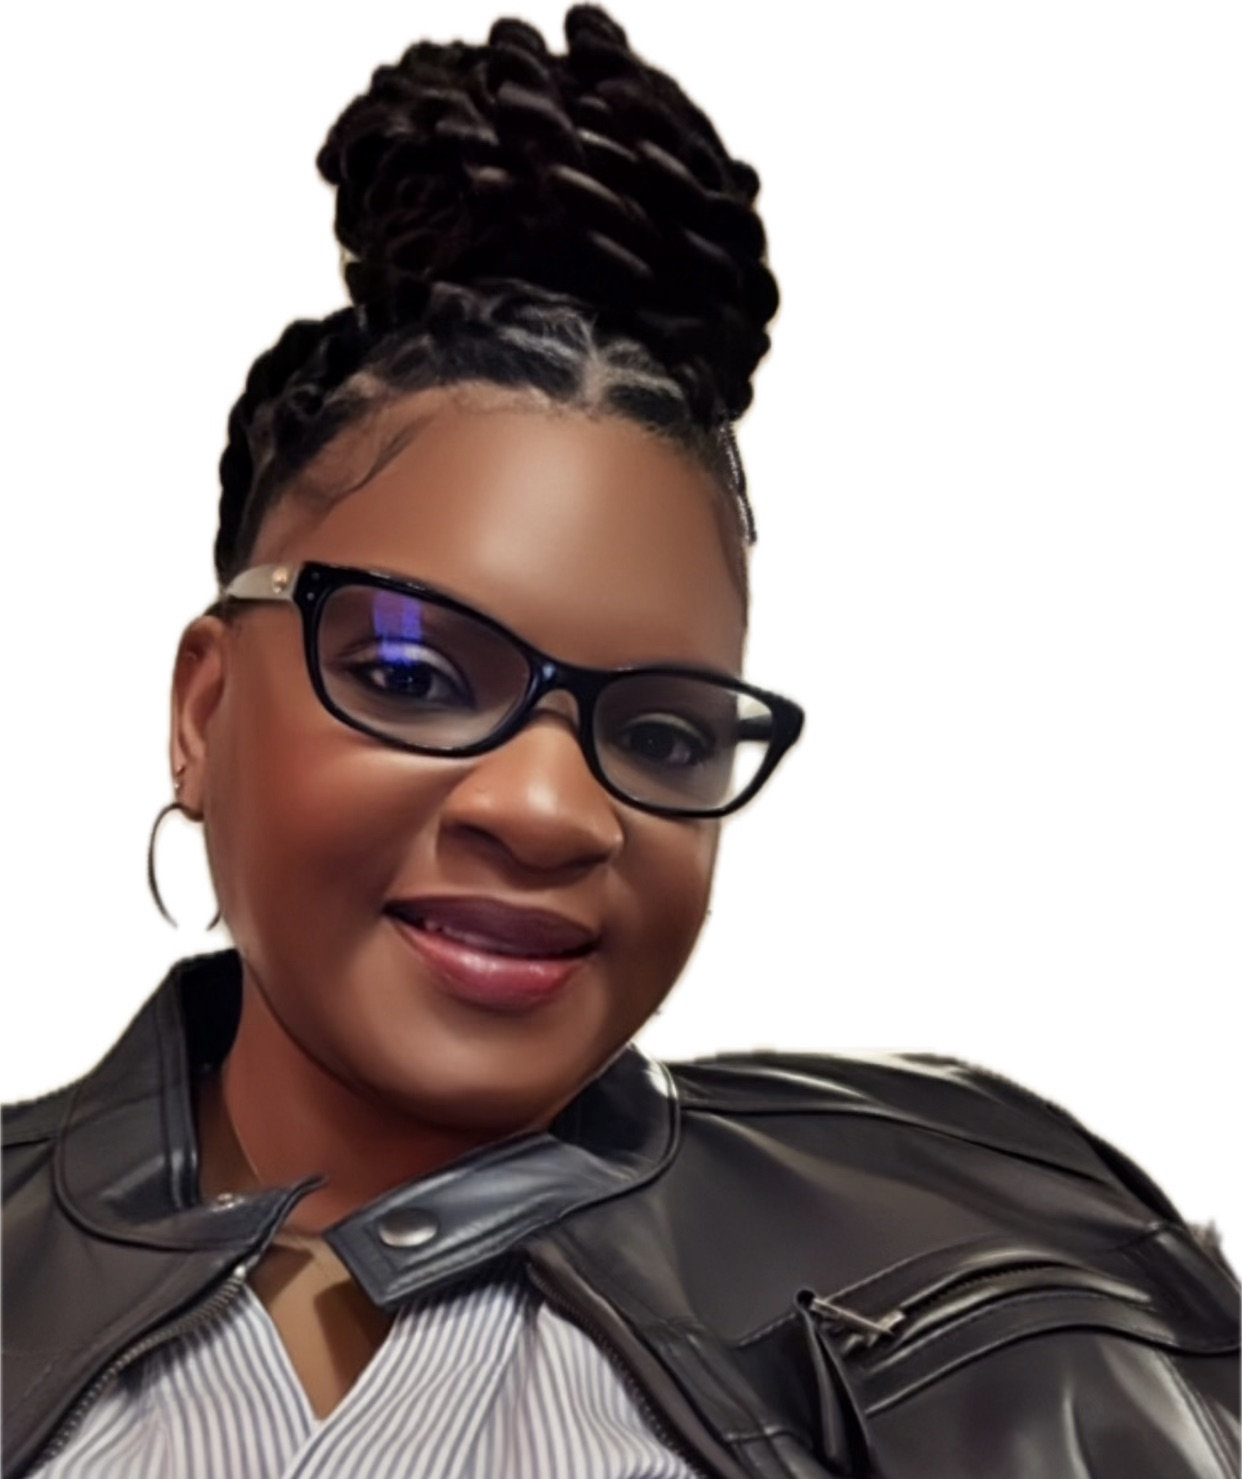
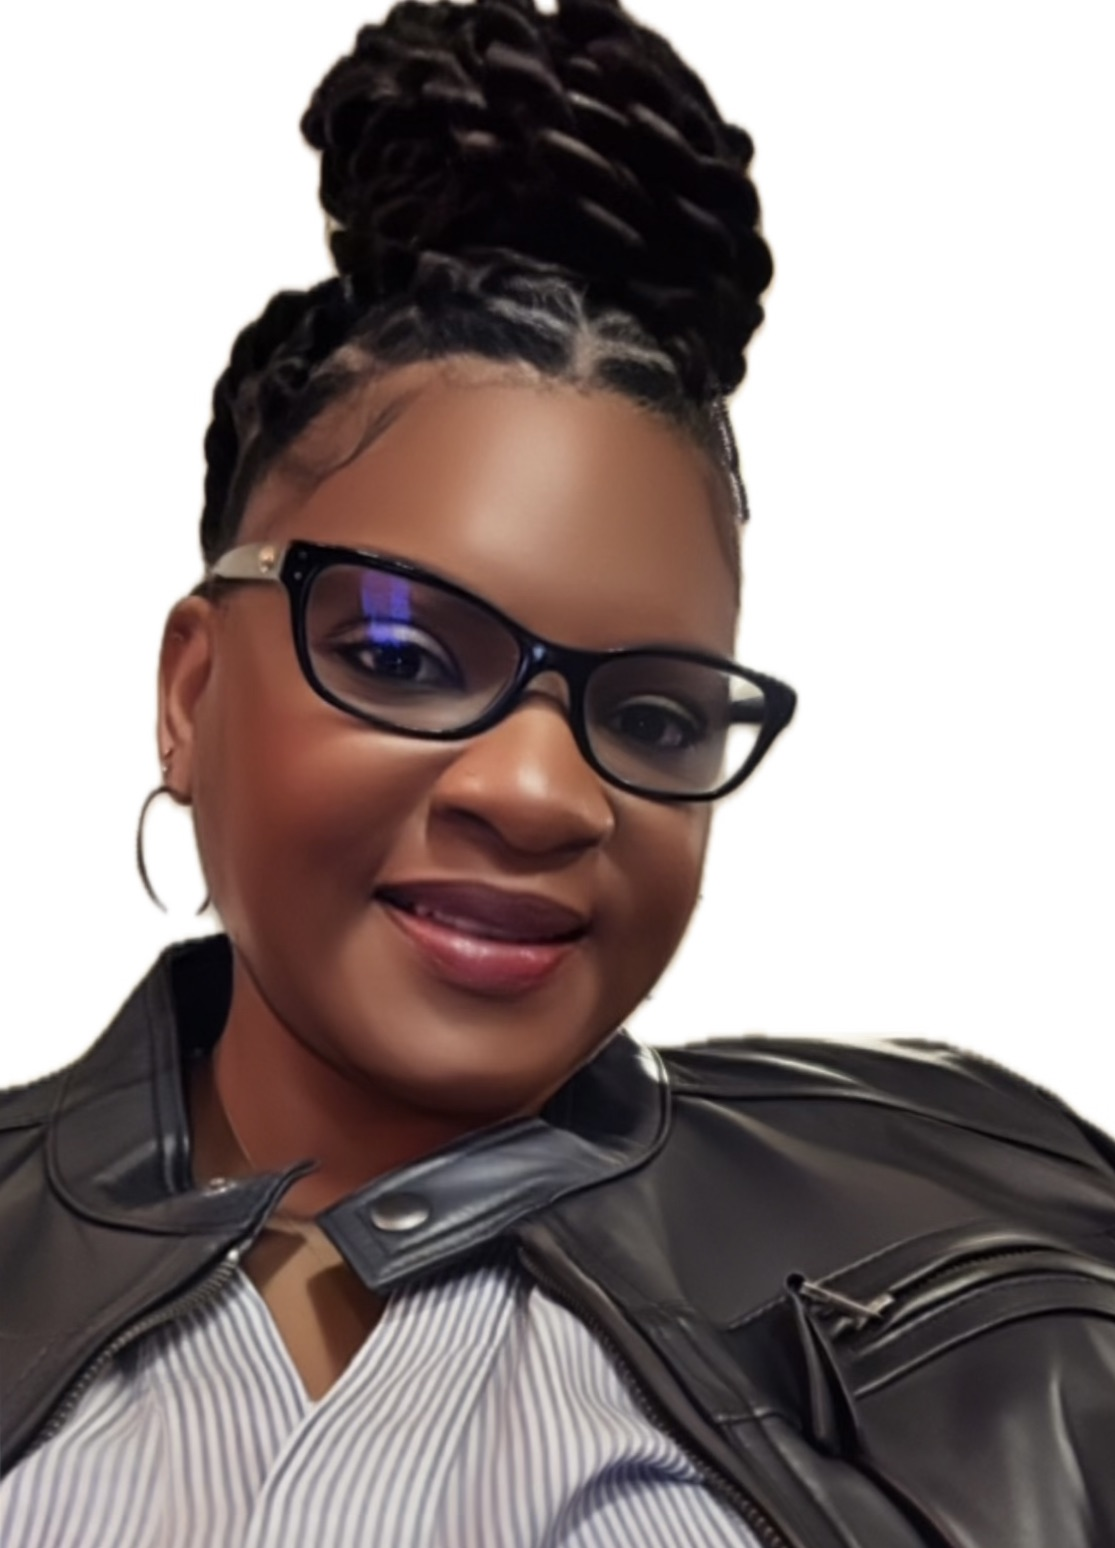
edit image

diff --git a/css/style.css b/css/style.css
@@ -25,6 +25,10 @@ nav {
 figcaption {
     font-size: 1.1rem;
     text-align: center;
+
+}
+
+#myName {
     font-weight: bold;
 }
 
@@ -190,8 +194,8 @@ label {
 }
 
 #aboutImg {
-    height: 25rem;
-    width: 25rem;
+    
+    width: 20rem;
     border-style: double;
     border-color: #888888;
     background: white;
@@ -225,7 +229,7 @@ body {
     background-size: 1100px 800px;
     background-position: 0rem 6.25rem; */
 
-    display: inline-block;
+    align-items: center;
 }
 
 #emailMe, #linkedin {
@@ -243,7 +247,7 @@ footer {
     left: 0;
     bottom: 0;
     width: 100%;
-    background-color: rgb(241, 226, 238);
+    background-color: rgba(255, 192, 203, 0.267);
     color: white;
     text-align: center;
     align-items: center;

diff --git a/index.html b/index.html
@@ -28,7 +28,7 @@
         <figure>
             <img id="bodyImg" src="img/Tina1.jpg" alt=" Tina Smith Image">
         </figure>
-        <figcaption>Tina Smith</figcaption>
+        <figcaption id="myName">Tina Smith</figcaption>
         <figcaption>Web Designer & Developer</figcaption>
 
         <div class="greeting">
